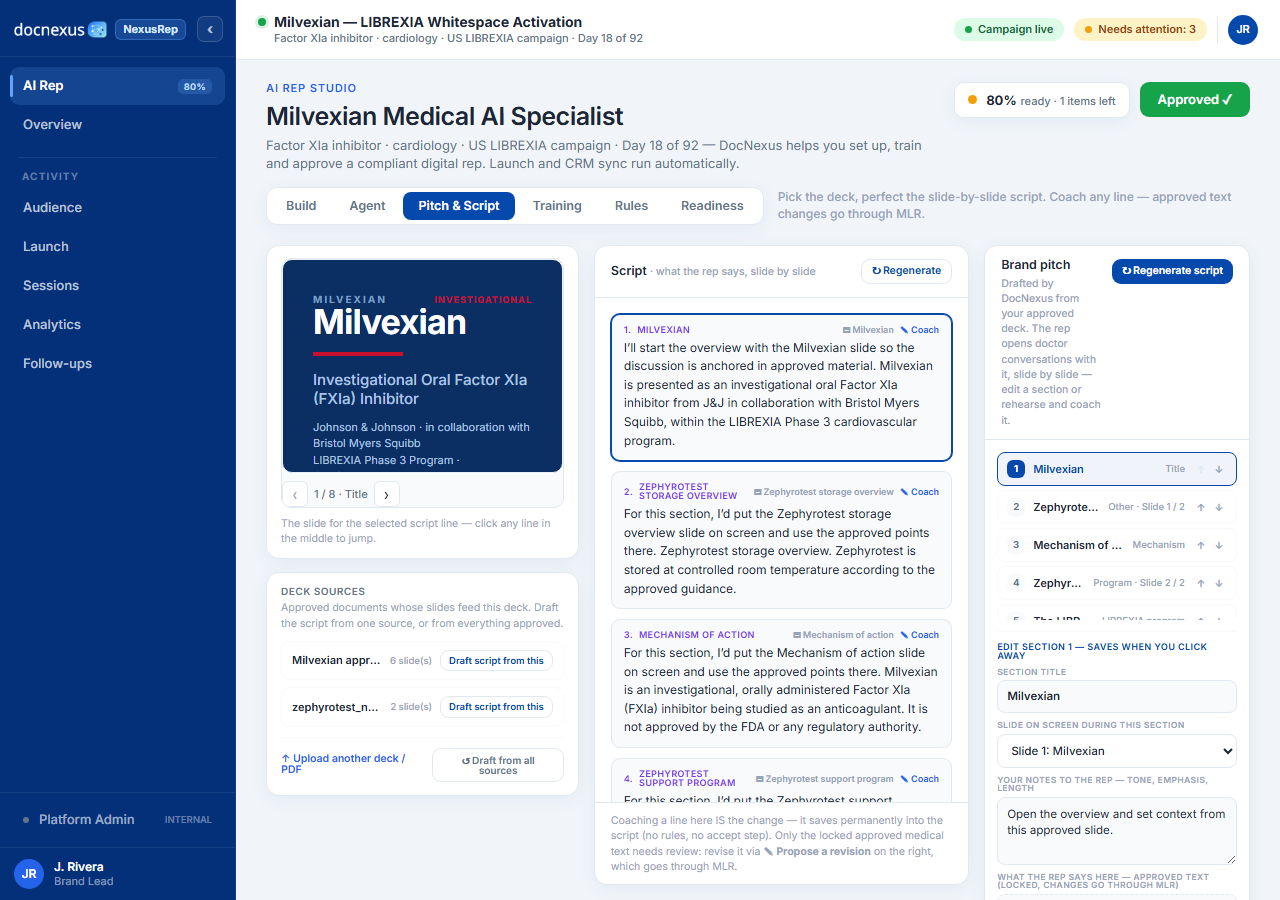
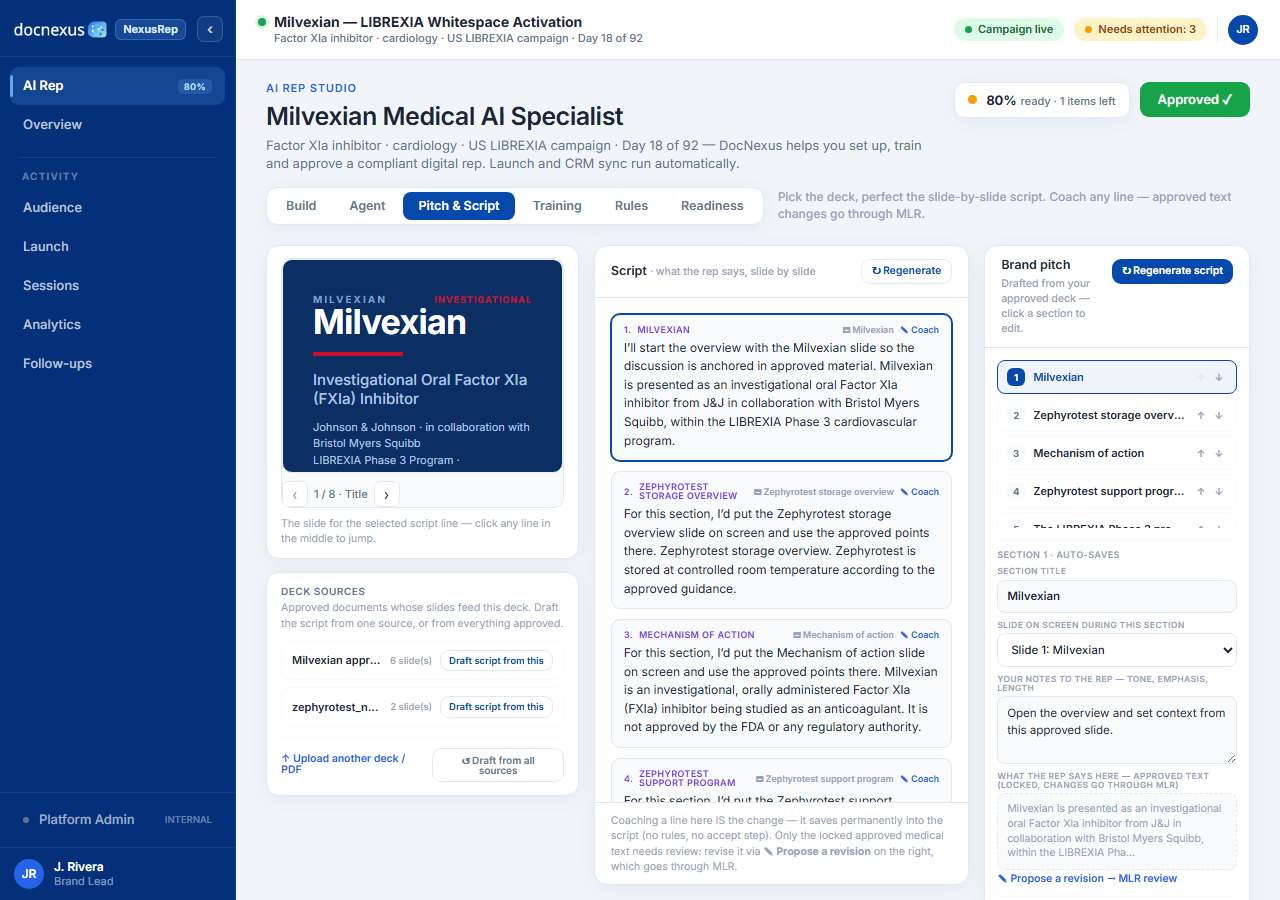
Pitch & Script: declutter the Brand pitch panel
- Header blurb cut to one line ("Drafted from your approved deck — click a
  section to edit.").
- Section rows show number + full title only — the redundant slide label
  repeated the title and truncated it to "The LI…"; the slide binding stays
  in the edit form and the deck.
- "EDIT SECTION N — SAVES WHEN YOU CLICK AWAY" calmed to "Section N ·
  auto-saves"; unslotted-slides warning halved.

Verified live at narrow + desktop widths; studio visual baselines
force-refreshed; full e2e 28 green.

Changed region(s): [[0.7812, 0.4978, 0.9688, 0.9956], [0.7812, 0.3111, 0.9375, 0.4667]]

diff --git a/src/app/_app/StudioScreen.tsx b/src/app/_app/StudioScreen.tsx
@@ -1703,14 +1703,13 @@ function OverviewPlanCard({
   const slides = snap?.slides ?? [];
   const step = steps.find((s) => s.id === activeStepId) ?? steps[0];
   const stepIndex = Math.max(0, steps.findIndex((s) => s.id === step?.id));
-  const slideLabelOf = (slideId?: string) => slides.find((s) => s.id === slideId)?.label ?? "no slide";
 
   return (
     <div style={{ background: "#fff", border: "1px solid var(--dn-border)", borderRadius: 13, boxShadow: "var(--dn-shadow-card)", overflow: "hidden" }}>
       <div style={{ padding: "13px 16px 11px", borderBottom: "1px solid var(--dn-border)", display: "flex", alignItems: "flex-start", justifyContent: "space-between", gap: 10 }}>
         <div style={{ minWidth: 0 }}>
           <div style={{ font: "600 12.5px/1 var(--dn-font-sans)", color: "var(--dn-fg)" }}>Brand pitch</div>
-          <div style={{ font: "500 10.5px/1.45 var(--dn-font-sans)", color: "var(--dn-fg-subtle)", marginTop: 4 }}>Drafted by DocNexus from your approved deck. The rep opens doctor conversations with it, slide by slide — edit a section or rehearse and coach it.</div>
+          <div style={{ font: "500 10.5px/1.45 var(--dn-font-sans)", color: "var(--dn-fg-subtle)", marginTop: 4 }}>Drafted from your approved deck — click a section to edit.</div>
         </div>
         <button onClick={onRehearse} disabled={rehearsing} title="Run the pitch in the coaching thread on the left" style={{ ...btnPrimary, flexShrink: 0, padding: "7px 10px", font: "600 10.5px/1 var(--dn-font-sans)", opacity: rehearsing ? 0.6 : 1 }}>{rehearsing ? "…" : rehearseLabel}</button>
       </div>
@@ -1739,7 +1738,6 @@ function OverviewPlanCard({
                   >
                     <span style={{ flexShrink: 0, width: 18, height: 18, borderRadius: 6, display: "inline-flex", alignItems: "center", justifyContent: "center", font: "700 9.5px/1 var(--dn-font-sans)", color: active ? "#fff" : "var(--dn-fg-muted)", background: active ? "var(--dn-brand-base)" : "var(--dn-surface-2)" }}>{i + 1}</span>
                     <span style={{ flex: 1, minWidth: 0, whiteSpace: "nowrap", overflow: "hidden", textOverflow: "ellipsis", font: `600 11px/1.3 var(--dn-font-sans)`, color: active ? "var(--dn-brand-base)" : "var(--dn-fg)" }}>{s.title}</span>
-                    <span style={{ flexShrink: 0, font: "500 9.5px/1 var(--dn-font-sans)", color: "var(--dn-fg-subtle)" }}>{slideLabelOf(s.slideId)}</span>
                     <span style={{ flexShrink: 0, display: "inline-flex", gap: 2 }}>
                       <span onClick={(e) => { e.stopPropagation(); onMove(s.id, -1); }} title="Move this section earlier" style={{ width: 16, textAlign: "center", color: i === 0 ? "var(--dn-border)" : "var(--dn-fg-subtle)", cursor: i === 0 ? "default" : "pointer", font: "600 10px/1.4 var(--dn-font-sans)" }}>↑</span>
                       <span onClick={(e) => { e.stopPropagation(); onMove(s.id, 1); }} title="Move this section later" style={{ width: 16, textAlign: "center", color: i === steps.length - 1 ? "var(--dn-border)" : "var(--dn-fg-subtle)", cursor: i === steps.length - 1 ? "default" : "pointer", font: "600 10px/1.4 var(--dn-font-sans)" }}>↓</span>
@@ -1751,11 +1749,11 @@ function OverviewPlanCard({
 
             {slides.length > steps.length && (
               <div style={{ font: "500 10.5px/1.45 var(--dn-font-sans)", color: "#92400e", background: "var(--dn-accent-yellow-bg)", borderRadius: 8, padding: "7px 10px" }}>
-                {slides.length - steps.length} approved slide(s) aren&apos;t in this pitch yet (they still answer questions, and the walkthrough appends them at the end). <span onClick={onReset} style={{ cursor: "pointer", textDecoration: "underline" }}>Re-draft from deck</span> to include them as sections.
+                {slides.length - steps.length} approved slide(s) aren&apos;t sections yet (they still answer questions). <span onClick={onReset} style={{ cursor: "pointer", textDecoration: "underline" }}>Re-draft from deck</span> to add them.
               </div>
             )}
             <div style={{ display: "grid", gap: 8, borderTop: "1px solid var(--dn-surface-2)", paddingTop: 10 }}>
-              <span style={{ font: "600 9px/1 var(--dn-font-sans)", letterSpacing: ".05em", textTransform: "uppercase", color: "var(--dn-brand-base)" }}>Edit section {stepIndex + 1} — saves when you click away</span>
+              <span style={{ font: "600 9px/1 var(--dn-font-sans)", letterSpacing: ".05em", textTransform: "uppercase", color: "var(--dn-fg-subtle)" }}>Section {stepIndex + 1} · auto-saves</span>
               <label style={{ display: "grid", gap: 4 }}>
                 <span style={{ font: "600 8.5px/1 var(--dn-font-sans)", letterSpacing: ".05em", textTransform: "uppercase", color: "var(--dn-fg-subtle)" }}>Section title</span>
                 <input